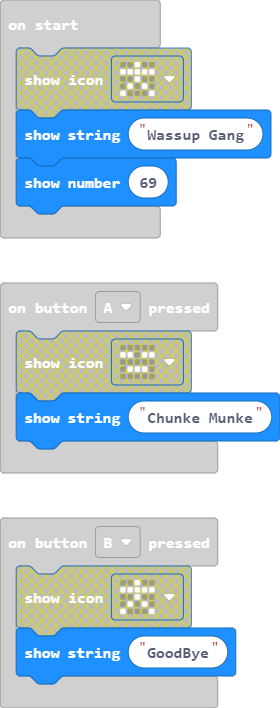
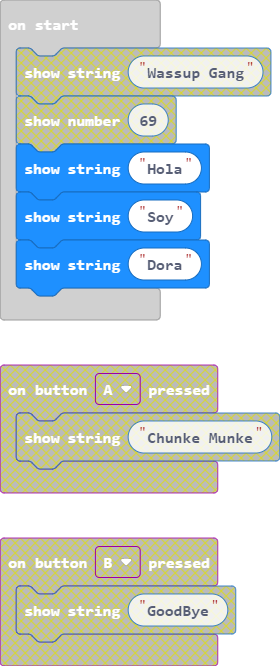
Update main.blocks, main.ts

diff --git a/main.ts b/main.ts
@@ -1,8 +1,3 @@
-input.onButtonPressed(Button.A, function () {
-    basic.showString("Chunke Munke")
-})
-input.onButtonPressed(Button.B, function () {
-    basic.showString("GoodBye")
-})
-basic.showString("Wassup Gang")
-basic.showNumber(69)
+basic.showString("Hola")
+basic.showString("Soy")
+basic.showString("Dora")
